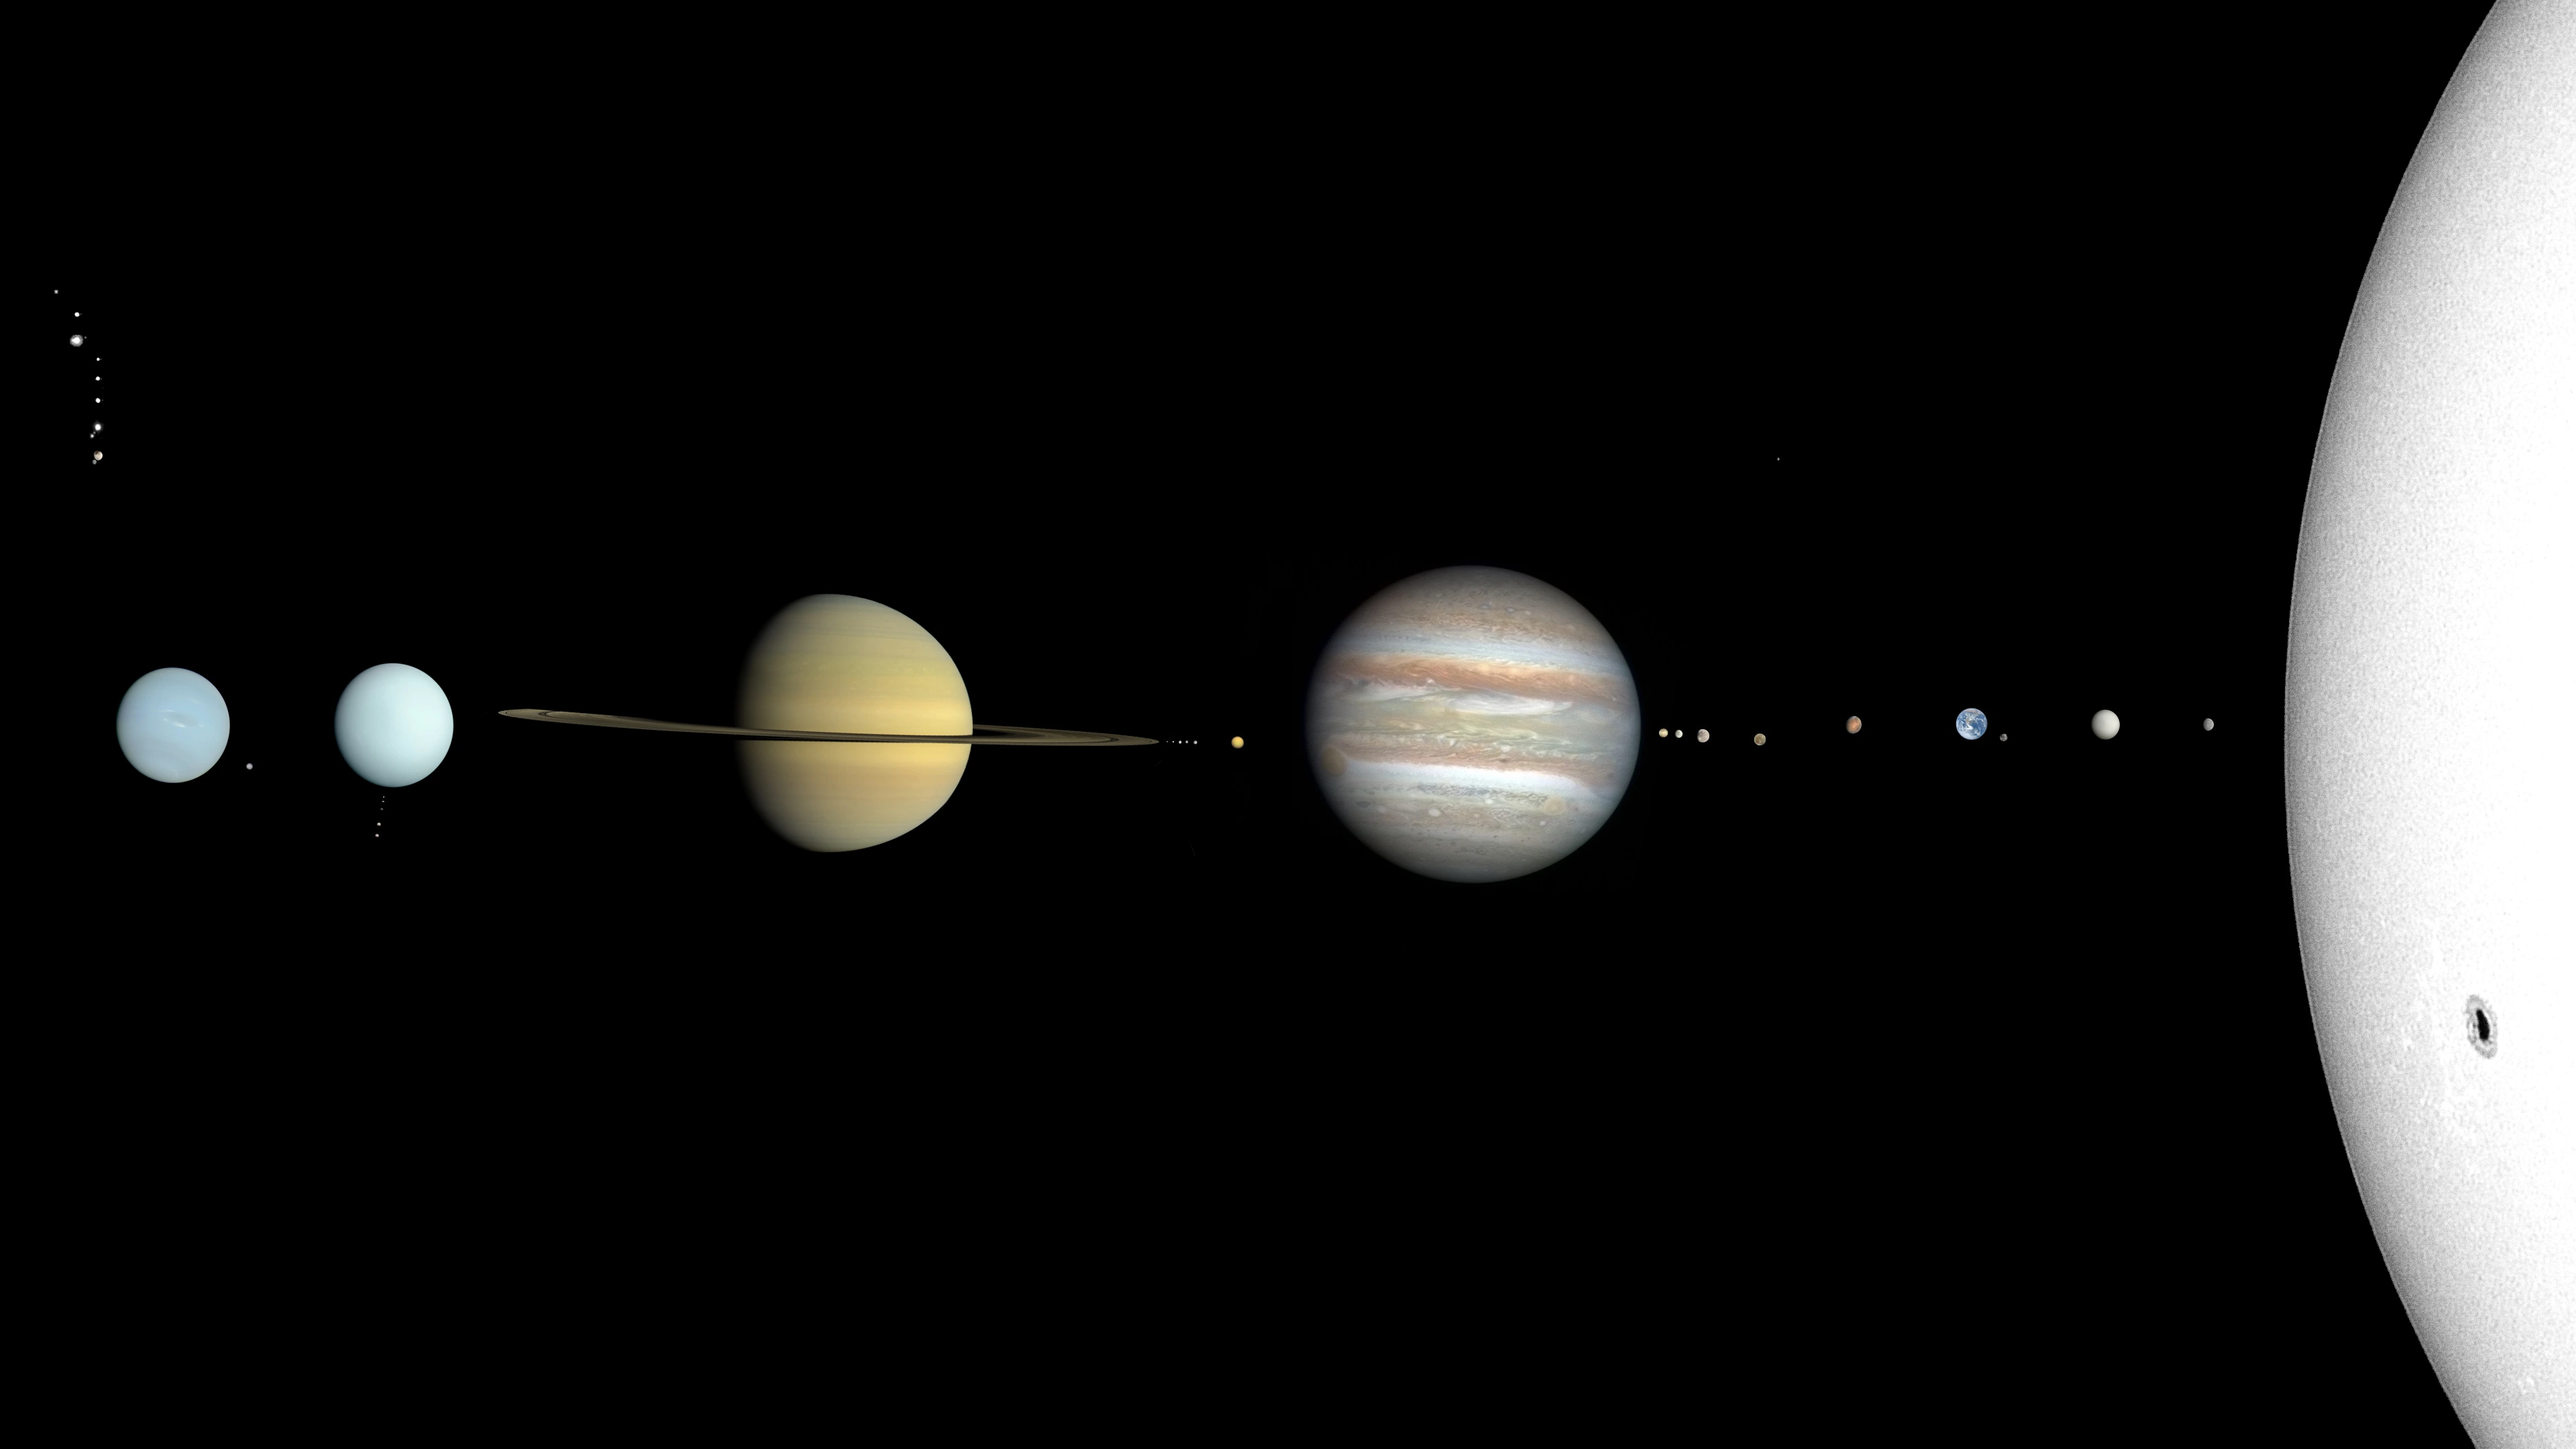
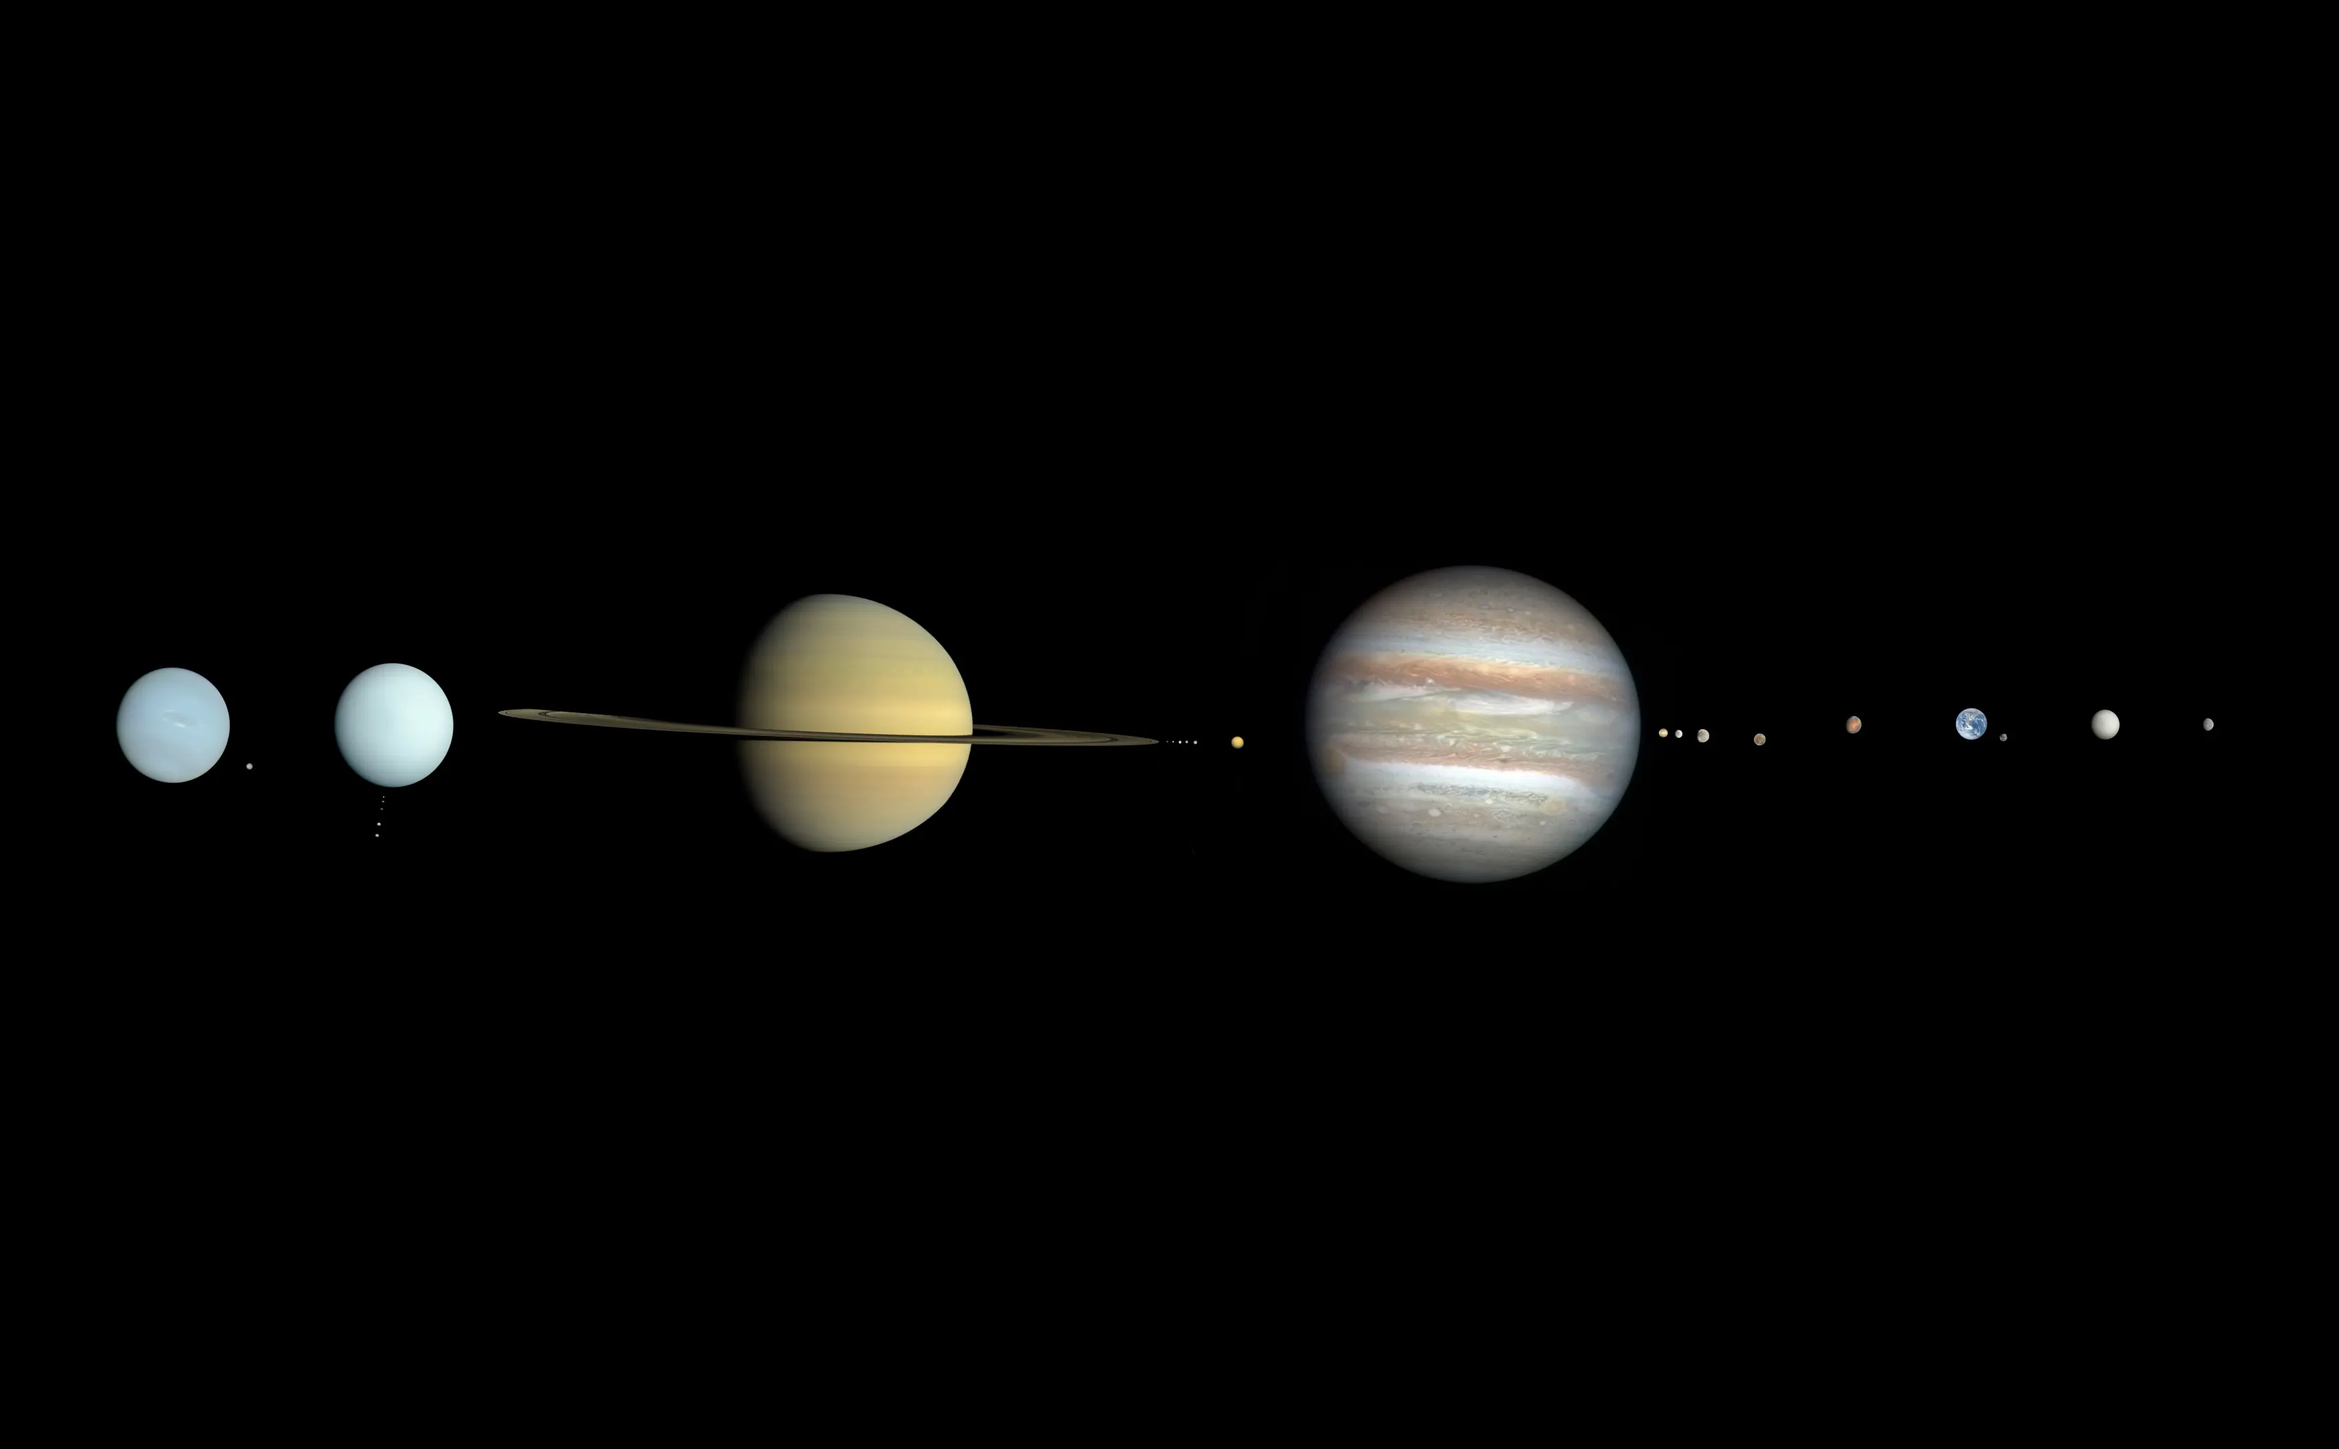
added planetary

Changed region(s): [[0.8053, 0.0, 1.0, 1.0], [0.031, 0.3722, 0.7743, 0.6204]]

diff --git a/html/planetary.html b/html/planetary.html
@@ -66,6 +66,103 @@
         </div>
     </div>
 
+    <!-- PLANETS SECTION -->
+    <div class="planetary-sections">
+        <!-- Sun -->
+        <div class="planetary-row sun-row">
+            <div class="planet">
+                <img src="/images/planets/sun.png" alt="The Sun">
+            </div>
+            <div class="planet-info">
+                <h2>The Sun</h2>
+                <p>The Sun is the star at the center of our solar system, providing the energy that sustains life on Earth.</p>
+            </div>
+        </div>
+
+    <!-- PLANETS SECTION -->
+    <div class="planetary-sections">
+        <!-- Planet Row -->
+        <div class="planetary-row">
+            <div class="planet left-planet">
+                <img src="/images/planets/mercury.png" alt="Mercury">
+            </div>
+            <div class="planet-info">
+                <h2>Mercury</h2>
+                <p>Mercury is the smallest planet in our solar system and closest to the Sun. It is known for its extreme temperatures and cratered surface.</p>
+            </div>
+        </div>
+
+        <div class="planetary-row">
+            <div class="planet right-planet">
+                <img src="/images/planets/venus.png" alt="Venus">
+            </div>
+            <div class="planet-info">
+                <h2>Venus</h2>
+                <p>Venus, often called Earth's twin, is shrouded in thick clouds of sulfuric acid, with a surface temperature hot enough to melt lead.</p>
+            </div>
+        </div>
+
+        <div class="planetary-row">
+            <div class="planet left-planet">
+                <img src="/images/planets/earth.png" alt="Earth">
+            </div>
+            <div class="planet-info">
+                <h2>Earth</h2>
+                <p>Earth is the only planet known to support life, with diverse ecosystems and a perfect balance of atmosphere, water, and temperature.</p>
+            </div>
+        </div>
+
+        <div class="planetary-row">
+            <div class="planet right-planet">
+                <img src="/images/planets/mars.png" alt="Mars">
+            </div>
+            <div class="planet-info">
+                <h2>Mars</h2>
+                <p>Mars, the Red Planet, is home to the tallest volcano and the largest canyon in the solar system. It has been a focal point for exploration.</p>
+            </div>
+        </div>
+
+        <div class="planetary-row">
+            <div class="planet left-planet">
+                <img src="/images/planets/jupiter.png" alt="Jupiter">
+            </div>
+            <div class="planet-info">
+                <h2>Jupiter</h2>
+                <p>Jupiter is the largest planet in the solar system, known for its Great Red Spot, a massive storm larger than Earth.</p>
+            </div>
+        </div>
+
+        <div class="planetary-row">
+            <div class="planet right-planet">
+                <img src="/images/planets/saturn.png" alt="Saturn">
+            </div>
+            <div class="planet-info">
+                <h2>Saturn</h2>
+                <p>Saturn is famous for its stunning ring system, made up of ice and rock particles, and is the second-largest planet in our solar system.</p>
+            </div>
+        </div>
+
+        <div class="planetary-row">
+            <div class="planet left-planet">
+                <img src="/images/planets/uranus.png" alt="Uranus">
+            </div>
+            <div class="planet-info">
+                <h2>Uranus</h2>
+                <p>Uranus, an ice giant, rotates on its side and has a pale blue color due to methane in its atmosphere.</p>
+            </div>
+        </div>
+
+        <div class="planetary-row">
+            <div class="planet right-planet">
+                <img src="/images/planets/neptune.png" alt="Neptune">
+            </div>
+            <div class="planet-info">
+                <h2>Neptune</h2>
+                <p>Neptune, the farthest planet from the Sun, is known for its deep blue color and supersonic winds.</p>
+            </div>
+        </div>
+    </div>
+
     <!-- FOOTER -->
     <footer class="footer">
         <div class="footer-container">

diff --git a/css/planetary-styles.css b/css/planetary-styles.css
@@ -1,7 +1,7 @@
 /* ---------- BODY ---------- */
 body.planets-page {
-  background-color: #000000; /* Example color: dark blue */
-  color: white; /* Optional: Adjust text color for better visibility */
+  background-color: #000000;
+  color: #ffffff;
 }
 
 /* ---------- PLANETARY ---------- */
@@ -64,3 +64,86 @@ body.planets-page {
       font-size: 1.1rem;
     }
   }
+
+/* ---------- PLANETARY SECTION ---------- */
+
+/* ---------- PLANETS SECTION ---------- */
+.planetary-sections {
+  position: relative;
+  width: 100%;
+}
+
+.planetary-row {
+  display: flex;
+  align-items: center;
+  justify-content: center;
+  position: relative;
+  height: 600px; /* Full viewport height for each row */
+  overflow: hidden;
+}
+
+.planet {
+  position: absolute;
+  top: 50%; /* Center vertically */
+  transform: translateY(-50%);
+  width: 50vmin; /* Ensure planets scale with viewport */
+  height: 50vmin;
+}
+
+.left-planet {
+  left: -10%; /* Half outside the viewport */
+}
+
+.right-planet {
+  right: -10%; /* Half outside the viewport */
+}
+
+.planet img {
+  width: 100%;
+  height: 100%;
+  object-fit:none;
+}
+
+.planet-info {
+  z-index: 1; /* Ensure text is above the planets */
+  text-align: center;
+  color: white;
+  max-width: 60%; /* Limit text width */
+}
+
+.planet-info h2 {
+  font-size: 2.5rem;
+  margin-bottom: 10px;
+}
+
+.planet-info p {
+  font-size: 1.2rem;
+  line-height: 1.8;
+}
+
+/* ---------- RESPONSIVENESS ---------- */
+@media (max-width: 960px) {
+  .planet {
+    width: 40vmin;
+    height: 40vmin;
+  }
+
+  .planet-info {
+    max-width: 80%;
+  }
+}
+
+@media (max-width: 480px) {
+  .planet {
+    width: 35vmin;
+    height: 35vmin;
+  }
+
+  .planet-info h2 {
+    font-size: 2rem;
+  }
+
+  .planet-info p {
+    font-size: 1rem;
+  }
+}
